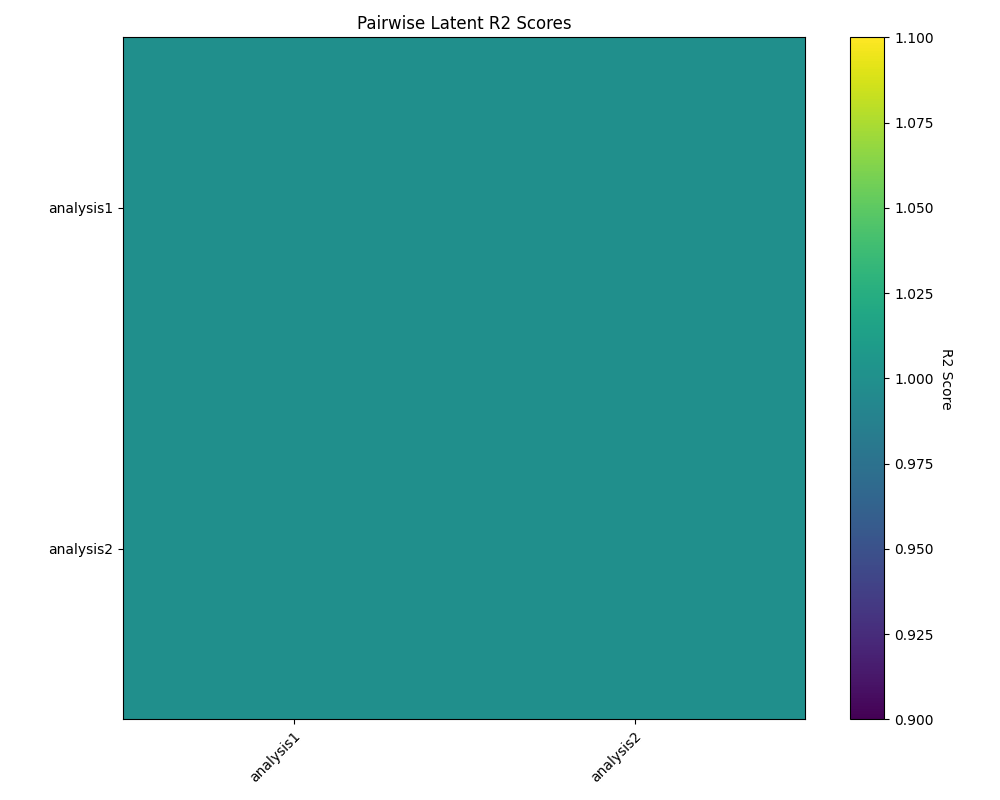
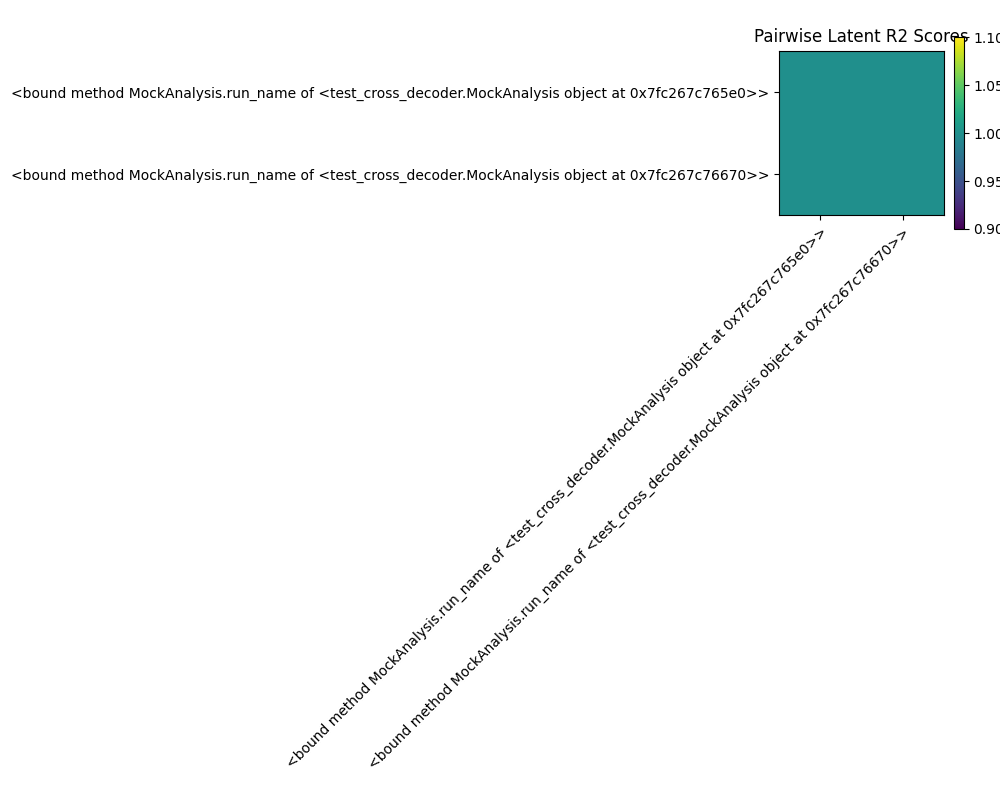
fixed run_name issue

diff --git a/src/cross_decoder/cross_decoder.py b/src/cross_decoder/cross_decoder.py
@@ -327,7 +327,7 @@ class CrossDecoder:
             
         return fig
 
-    def save_decoding_matrices(self, r2_matrix, group_matrix, phase="val"):
+    def save_decoding_matrices(self, r2_matrix, group_matrix, phase="val", save_json_only=False):
         """
         Save decoding matrices with metadata.
 
@@ -335,6 +335,7 @@ class CrossDecoder:
             r2_matrix (np.ndarray): Matrix of R2 scores
             group_matrix (np.ndarray): Matrix of group labels
             phase (str, optional): Phase used for decoding. Defaults to "val"
+            save_json_only (bool, optional): If True, only save the metadata JSON file. Defaults to False
         """
         # Generate deterministic hash IDs for each analysis
         analysis_ids = []
@@ -344,7 +345,7 @@ class CrossDecoder:
             if isinstance(analysis.run_name, property):
                 run_name = analysis.run_name.fget(analysis)
             else:
-                run_name = analysis.run_name
+                run_name = analysis.run_name()
             analysis_names.append(run_name)
             
             # Create deterministic hash from run name
@@ -352,26 +353,7 @@ class CrossDecoder:
             hash_id = hash_obj.hexdigest()[:8]  # Take first 8 chars of hash
             analysis_ids.append(hash_id)
 
-        # Create DataFrame with analysis IDs as index/columns
-        df = pd.DataFrame(
-            r2_matrix,
-            index=analysis_ids,
-            columns=analysis_ids
-        )
-
-        # Save as CSV
-        csv_filename = "r2_matrix.csv"
-        csv_path = os.path.join(self.save_dir, csv_filename)
-        df.to_csv(csv_path)
-
-        # Also save the original matrices and metadata
-        base_path = os.path.join(self.save_dir, "decoding")
-
-        # Save matrices
-        np.save(f"{base_path}_r2.npy", r2_matrix)
-        np.save(f"{base_path}_groups.npy", group_matrix)
-
-        # Save metadata
+        # Create metadata
         metadata = {
             "phase": phase,
             "analysis_ids": analysis_ids,
@@ -380,10 +362,28 @@ class CrossDecoder:
             "comparison_tag": self.comparison_tag
         }
 
+        # Save metadata
+        base_path = os.path.join(self.save_dir, "decoding")
         with open(f"{base_path}_metadata.json", "w") as f:
             json.dump(metadata, f, indent=4)
-        
-        
+
+        if not save_json_only:
+            # Create DataFrame with analysis IDs as index/columns
+            df = pd.DataFrame(
+                r2_matrix,
+                index=analysis_ids,
+                columns=analysis_ids
+            )
+
+            # Save as CSV
+            csv_filename = "r2_matrix.csv"
+            csv_path = os.path.join(self.save_dir, csv_filename)
+            df.to_csv(csv_path)
+
+            # Save matrices
+            np.save(f"{base_path}_r2.npy", r2_matrix)
+            np.save(f"{base_path}_groups.npy", group_matrix)
+
     def load_decoding_matrices(self, unique_id):
         """
         Load saved decoding matrices using their unique identifier.

diff --git a/tests/test_cross_decoder.py b/tests/test_cross_decoder.py
@@ -3,6 +3,9 @@ import torch
 import numpy as np
 from cross_decoder import CrossDecoder, LatentAnalysisInterface, get_signal_r2_linear
 import os
+import json
+import hashlib
+from datetime import datetime
 
 class MockAnalysis(LatentAnalysisInterface):
     """Mock analysis class for testing with random latent data."""
@@ -39,7 +42,6 @@ class MockAnalysis(LatentAnalysisInterface):
         # For testing, we'll use fixed trial lengths
         return None
     
-    @property
     def run_name(self):
         return self._name
 
@@ -284,7 +286,7 @@ def test_related_latent_spaces():
 
 def test_save_load_plot_decoding_matrices(cross_decoder, mock_analyses, tmp_path):
     """Test saving, loading, and plotting decoding matrices with IDs."""
-    print("mock_analyses['analysis1'].run_name:", mock_analyses['analysis1'].run_name)
+    print("mock_analyses['analysis1'].run_name():", mock_analyses['analysis1'].run_name())
     # Load analyses
     cross_decoder.load_analysis(mock_analyses['analysis1'], group="group1")
     cross_decoder.load_analysis(mock_analyses['analysis2'], group="group1")
@@ -364,3 +366,47 @@ def test_get_signal_r2_linear_deterministic():
     
     # Verify results are identical for both 3D and 2D inputs
     np.testing.assert_almost_equal(r2_score1, r2_score3)
+
+def save_decoding_matrices(self, r2_matrix, group_matrix, phase="val", save_json_only=False):
+    """
+    Save decoding matrices with metadata.
+
+    Args:
+        r2_matrix (np.ndarray): Matrix of R2 scores
+        group_matrix (np.ndarray): Matrix of group labels
+        phase (str, optional): Phase used for decoding. Defaults to "val"
+        save_json_only (bool, optional): If True, only save the metadata JSON file. Defaults to False
+    """
+    # Generate deterministic hash IDs for each analysis
+    analysis_ids = []
+    analysis_names = []
+    for analysis in self.analyses:
+        # Get run name properly handling both property and method cases
+        if isinstance(analysis.run_name, property):
+            run_name = analysis.run_name.fget(analysis)
+        else:
+            run_name = analysis.run_name()
+        analysis_names.append(run_name)
+        # Create deterministic hash from run name
+        analysis_id = hashlib.md5(run_name.encode()).hexdigest()[:8]
+        analysis_ids.append(analysis_id)
+    
+    # Create metadata dictionary
+    metadata = {
+        "analysis_ids": analysis_ids,
+        "analysis_names": analysis_names,
+        "groups": self.groups,
+        "phase": phase,
+        "timestamp": datetime.now().isoformat()
+    }
+    
+    # Save metadata
+    metadata_path = os.path.join(self.save_dir, f"{phase}_decoding_metadata.json")
+    with open(metadata_path, 'w') as f:
+        json.dump(metadata, f, indent=2)
+    
+    if not save_json_only:
+        # Save matrices
+        np.save(os.path.join(self.save_dir, f"{phase}_r2_matrix.npy"), r2_matrix)
+        if group_matrix is not None:
+            np.save(os.path.join(self.save_dir, f"{phase}_group_matrix.npy"), group_matrix)
